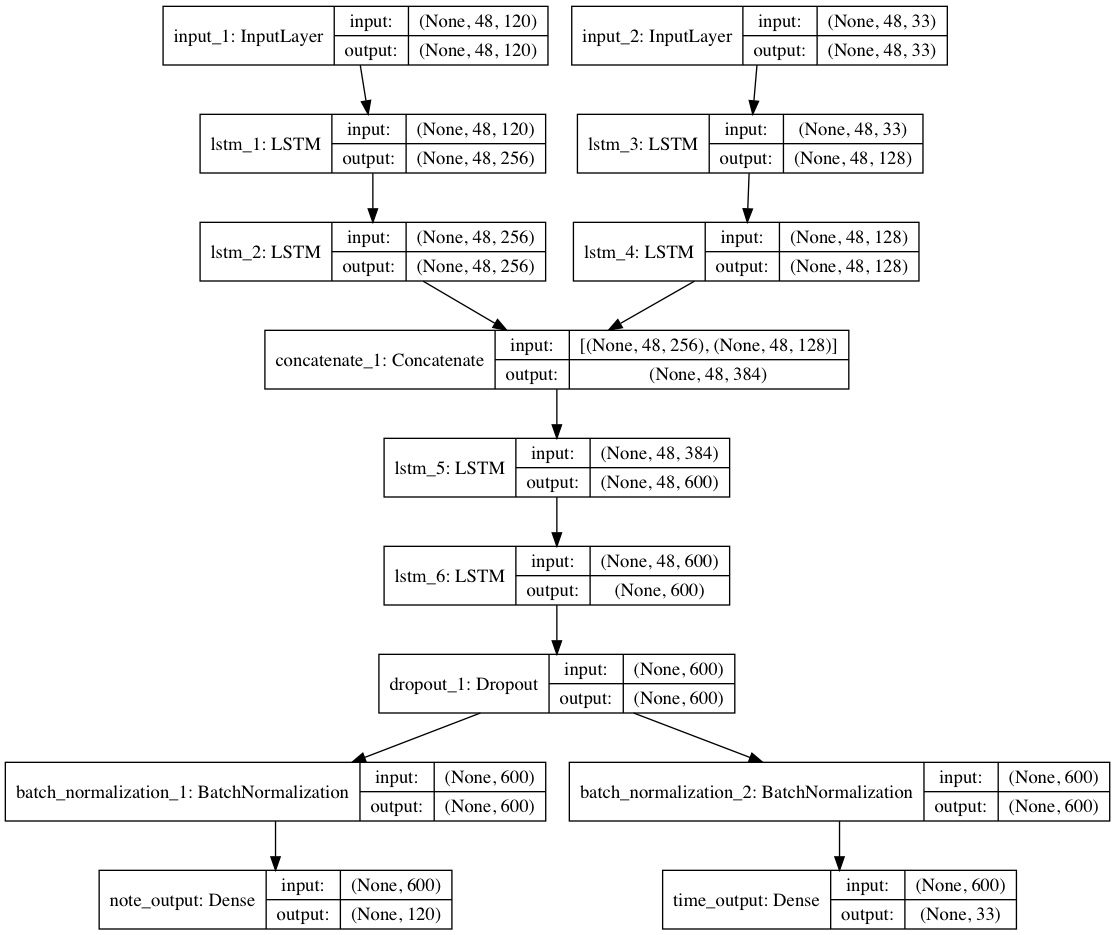
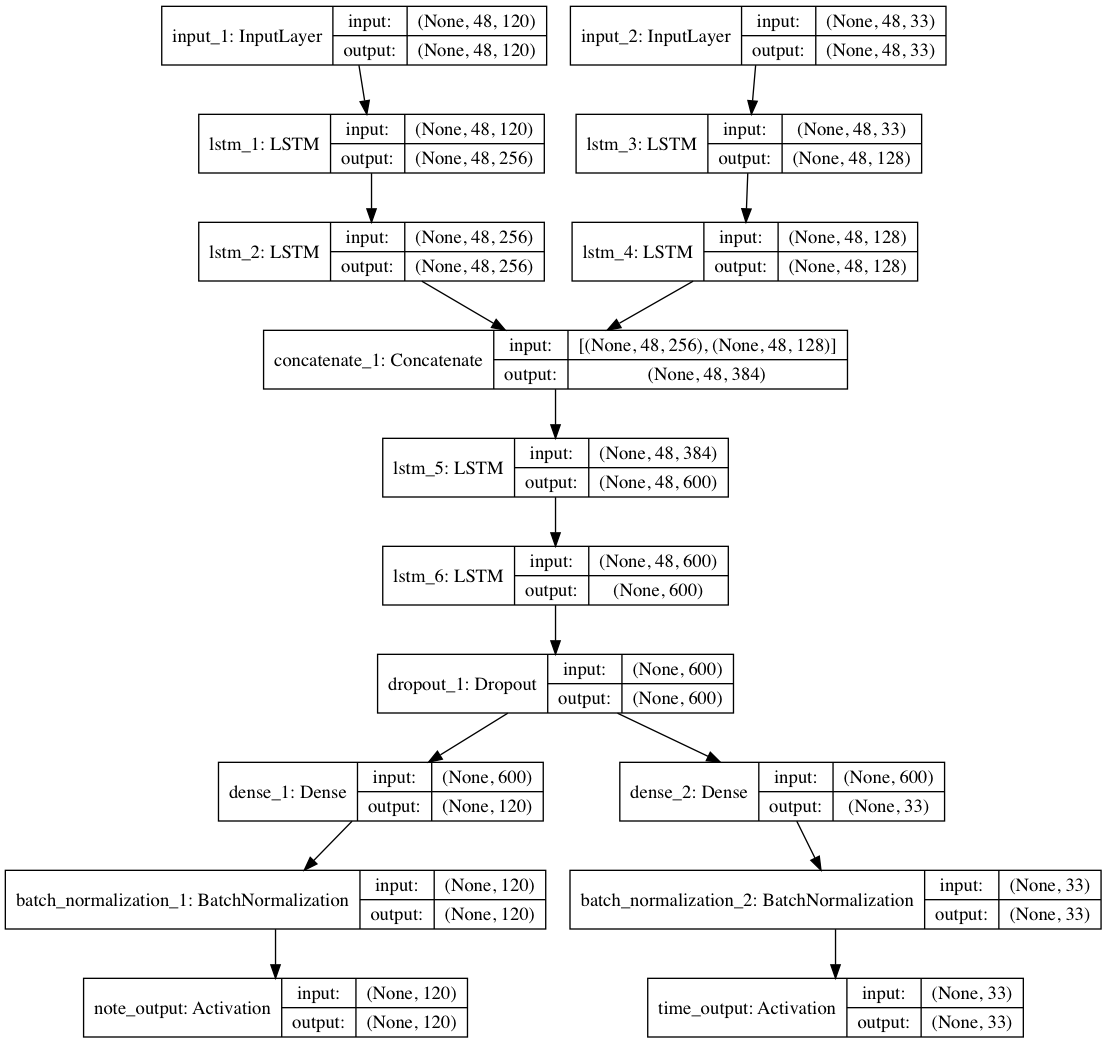
foo

Changed region(s): [[0.0, 0.0, 1.0, 1.0]]

diff --git a/multiple_instruments/train.py b/multiple_instruments/train.py
@@ -130,11 +130,14 @@ def main():
     codec = LSTM(600, return_sequences=False, dropout=drop_rate, activation='tanh', trainable=train_lstm)(codec)
     encoded = Dropout(drop_rate)(codec)
 
-    fc_notes = BatchNormalization(trainable=train_note)(encoded)
-    pred_notes = Dense(vecLen, kernel_initializer='normal', activation='softmax', name='note_output', trainable=train_note)(fc_notes) ## output PMF
+    fc_notes = Dense(vecLen, kernel_initializer='normal', trainable=train_note)(encoded) ## output PMF
+    fc_notes = BatchNormalization(trainable=train_note)(fc_notes)
+    pred_notes = Activation('softmax', name='note_output', trainable=train_note)(fc_notes)
 
-    fc_delta = BatchNormalization(trainable=train_delta)(encoded)
-    pred_delta = Dense(maxdelta, kernel_initializer='normal', activation='softmax', name='time_output', trainable=train_delta)(fc_delta) ## output PMF
+    fc_delta = Dense(maxdelta, kernel_initializer='normal', trainable=train_delta)(encoded) ## output PMF
+    fc_delta = BatchNormalization(trainable=train_delta)(fc_delta)
+    pred_delta = Activation('softmax', name='time_output', trainable=train_delta)(fc_delta) ## output PMF
+
     aiComposer = Model([noteInput, deltaInput], [pred_notes, pred_delta])
     noteClass  = Model([noteInput, deltaInput], [pred_notes])
     deltaClass = Model([noteInput, deltaInput], [pred_delta])

diff --git a/multiple_instruments/load.py b/multiple_instruments/load.py
@@ -53,11 +53,13 @@ with tf.device('/gpu:3'):
     codec = LSTM(600, return_sequences=False, dropout=drop_rate, activation='tanh')(codec)
     encoded = Dropout(drop_rate)(codec)
 
-    fc_notes = BatchNormalization()(encoded)
-    pred_notes = Dense(vecLen, kernel_initializer='normal', activation='softmax', name='note_output')(fc_notes) ## output PMF
+    fc_notes = Dense(vecLen, kernel_initializer='normal')(encoded) ## output PMF
+    fc_notes = BatchNormalization()(fc_notes)
+    pred_notes = Activation('softmax', name='note_output')(fc_notes)
 
-    fc_delta = BatchNormalization()(encoded)
-    pred_delta = Dense(maxdelta, kernel_initializer='normal', activation='softmax', name='time_output')(fc_delta) ## output PMF
+    fc_delta = Dense(maxdelta, kernel_initializer='normal')(encoded) ## output PMF
+    fc_delta = BatchNormalization()(fc_delta)
+    pred_delta = Activation('softmax', name='time_output')(fc_delta) ## output PMF
 
 aiComposer = Model([noteInput, deltaInput], [pred_notes, pred_delta])
 if ( os.path.isfile('./top_weight.h5')):  ## fine-tuning

diff --git a/multiple_instruments/summary.py b/multiple_instruments/summary.py
@@ -53,11 +53,13 @@ with tf.device('/gpu:3'):
     codec = LSTM(600, return_sequences=False, dropout=drop_rate, activation='tanh')(codec)
     encoded = Dropout(drop_rate)(codec)
 
-    fc_notes = BatchNormalization()(encoded)
-    pred_notes = Dense(vecLen, kernel_initializer='normal', activation='softmax', name='note_output')(fc_notes) ## output PMF
+    fc_notes = Dense(vecLen, kernel_initializer='normal')(encoded) ## output PMF
+    fc_notes = BatchNormalization()(fc_notes)
+    pred_notes = Activation('softmax', name='note_output')(fc_notes)
 
-    fc_delta = BatchNormalization()(encoded)
-    pred_delta = Dense(maxdelta, kernel_initializer='normal', activation='softmax', name='time_output')(fc_delta) ## output PMF
+    fc_delta = Dense(maxdelta, kernel_initializer='normal')(encoded) ## output PMF
+    fc_delta = BatchNormalization()(fc_delta)
+    pred_delta = Activation('softmax', name='time_output')(fc_delta) ## output PMF
 
 aiComposer = Model([noteInput, deltaInput], [pred_notes, pred_delta])
 aiComposer.summary()
